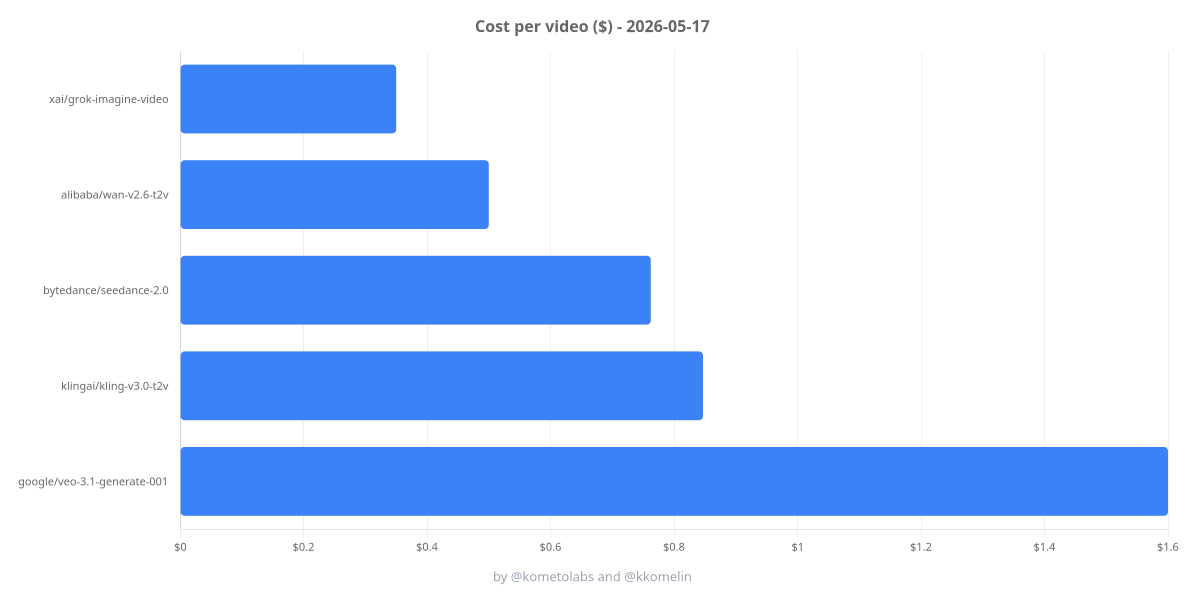
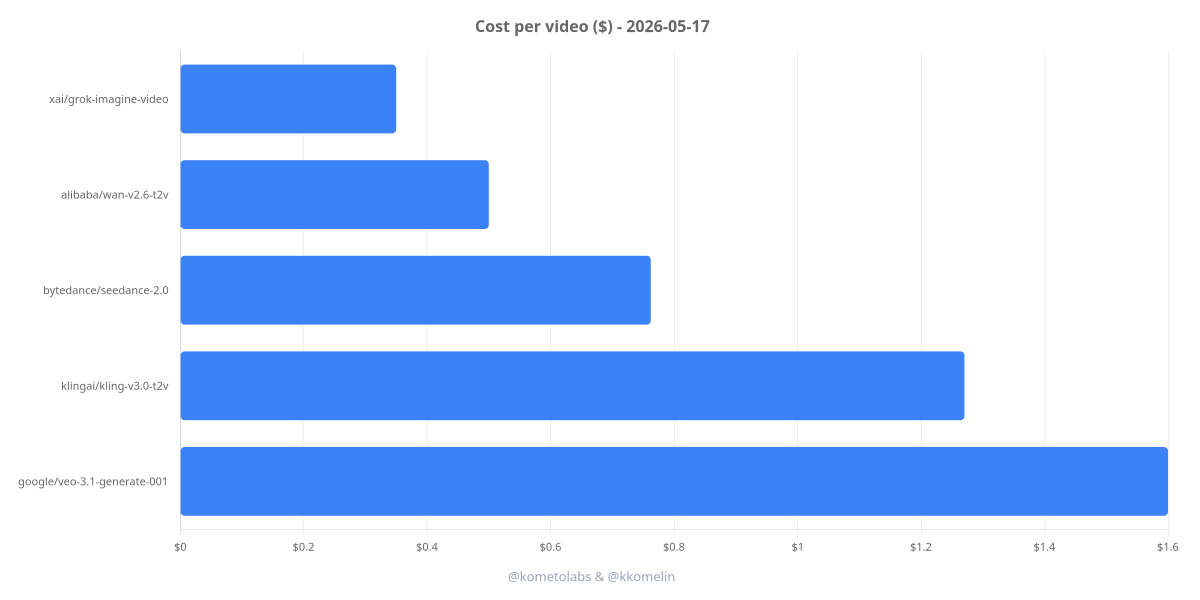
Enabled sound explicitly for the klingai model. Added a record to the model quirks doc.

Changed region(s): [[0.5858, 0.57, 0.8017, 0.72], [0.4317, 0.93, 0.5858, 0.99]]

diff --git a/src/charts.ts b/src/charts.ts
@@ -1,0 +1,27 @@
+// Standalone entry point: regenerate cost/latency charts from the existing
+// report.md without re-running the benchmark.
+//
+//   bun run charts
+//
+// Reads config.reportPath and writes cost.png / latency.png into
+// config.chartsDir, overwriting existing files.
+import fs from 'node:fs'
+import path from 'node:path'
+import { config } from './config.js'
+import { generateCharts } from './phases/generateCharts.js'
+
+const reportPath = path.resolve(config.reportPath)
+const chartsDir = path.resolve(config.chartsDir)
+
+if (!fs.existsSync(reportPath)) {
+  console.error(`Error: report does not exist: ${reportPath}`)
+  process.exit(1)
+}
+
+console.log(`Generating charts from ${reportPath}...`)
+const written = await generateCharts({ reportPath, chartsDir })
+if (written.length === 0) {
+  console.error('No chartable rows found in report (all failed or missing prices?).')
+  process.exit(1)
+}
+console.log(`  ${written.length} chart(s) -> ${chartsDir}`)

diff --git a/src/models.ts b/src/models.ts
@@ -10,7 +10,7 @@ const models: ModelConfig[] = [
     name: 'Wan v2.6 T2V',
     provider: 'Alibaba',
     notes: '720p/1080p; rejects `aspectRatio`, uses `resolution` only',
-    enabled: true,
+    enabled: false,
     // Alibaba Wan rejects `aspectRatio`; size is set via `resolution`.
     skipAspectRatio: true,
     providerOptions: { alibaba: { pollTimeoutMs: 900_000 } },
@@ -20,7 +20,7 @@ const models: ModelConfig[] = [
     name: 'Seedance 2.0',
     provider: 'ByteDance',
     notes: 'Token-based pricing; multi-modal input',
-    enabled: true,
+    enabled: false,
     providerOptions: { bytedance: { pollTimeoutMs: 900_000 } },
   },
   {
@@ -28,7 +28,7 @@ const models: ModelConfig[] = [
     name: 'Veo 3.1',
     provider: 'Google',
     notes: 'Requires generateAudio; duration in {4,6,8}; resolution as 720p/1080p',
-    enabled: true,
+    enabled: false,
     // Veo accepts only 4/6/8 seconds.
     duration: 4,
     // Veo expects '720p'/'1080p', not WxH.
@@ -42,18 +42,19 @@ const models: ModelConfig[] = [
     provider: 'KlingAI',
     notes: 'Standard mode; rejects `resolution`, uses `aspectRatio` only',
     enabled: true,
-    // Kling v2.x/v3.x duration must be 5 or 10.
+    // Kling duration: v2.x must be 5 or 10; v3.0 allows 3-15. 5s works for both.
     duration: 5,
     // Kling does not accept the `resolution` parameter.
     skipResolution: true,
-    providerOptions: { klingai: { mode: 'std', pollTimeoutMs: 900_000 } },
+    // `sound: 'on'` enables audio (defaults to 'off'); adds ~50% to per-second cost.
+    providerOptions: { klingai: { mode: 'std', sound: 'on', pollTimeoutMs: 900_000 } },
   },
   {
     id: 'xai/grok-imagine-video',
     name: 'Grok Imagine Video',
     provider: 'xAI',
     notes: '720p ceiling, duration 1-15s',
-    enabled: true,
+    enabled: false,
     providerOptions: { xai: { pollTimeoutMs: 900_000 } },
   },
 ]

diff --git a/MODEL-QUIRKS.md b/MODEL-QUIRKS.md
@@ -57,6 +57,12 @@ Documented workarounds for non-standard behavior across video generation provide
 
 ---
 
+**Quirk:** Audio is opt-in via `providerOptions.klingai.sound` (a string, `'on'` or `'off'`, not a boolean). Defaults to `'off'`, so output is silent unless explicitly enabled. Requires v2.6+ and adds ~50% to the per-second cost (v3.0 std: $0.168/s → $0.252/s). The internal gateway pricing JSON uses `audio: true/false`, but the SDK field is `sound`.
+
+**Adaptation:** `providerOptions: { klingai: { sound: 'on' } }` on the model entry.
+
+---
+
 ## Alibaba Wan v2.6 t2v
 
 **Quirk:** Rejects the `aspectRatio` parameter. Size is set via `resolution` or `providerOptions.alibaba`. Passing `aspectRatio` triggers an AI SDK warning and the field is dropped.

diff --git a/results/report.md b/results/report.md
@@ -8,10 +8,10 @@
 | `alibaba/wan-v2.6-t2v` | $0.5 | 53.4s | [alibaba-wan-v2.6-t2v.mp4](./videos/alibaba-wan-v2.6-t2v.mp4) |
 | `bytedance/seedance-2.0` | $0.7623 | 170.4s | [bytedance-seedance-2.0.mp4](./videos/bytedance-seedance-2.0.mp4) |
 | `google/veo-3.1-generate-001` | $1.6 | 54.6s | [google-veo-3.1-generate-001.mp4](./videos/google-veo-3.1-generate-001.mp4) |
-| `klingai/kling-v3.0-t2v` | $0.846888 | 45.6s | [klingai-kling-v3.0-t2v.mp4](./videos/klingai-kling-v3.0-t2v.mp4) |
+| `klingai/kling-v3.0-t2v` | $1.270332 | 41.6s | [klingai-kling-v3.0-t2v.mp4](./videos/klingai-kling-v3.0-t2v.mp4) |
 | `xai/grok-imagine-video` | $0.35 | 49.6s | [xai-grok-imagine-video.mp4](./videos/xai-grok-imagine-video.mp4) |
 
-**Total spent:** $4.059188
+**Total spent:** $4.482632
 
 _Latency is wall time per video, measured by the benchmark script._  
 _Cost is returned by the gateway, so it should be accurate._  